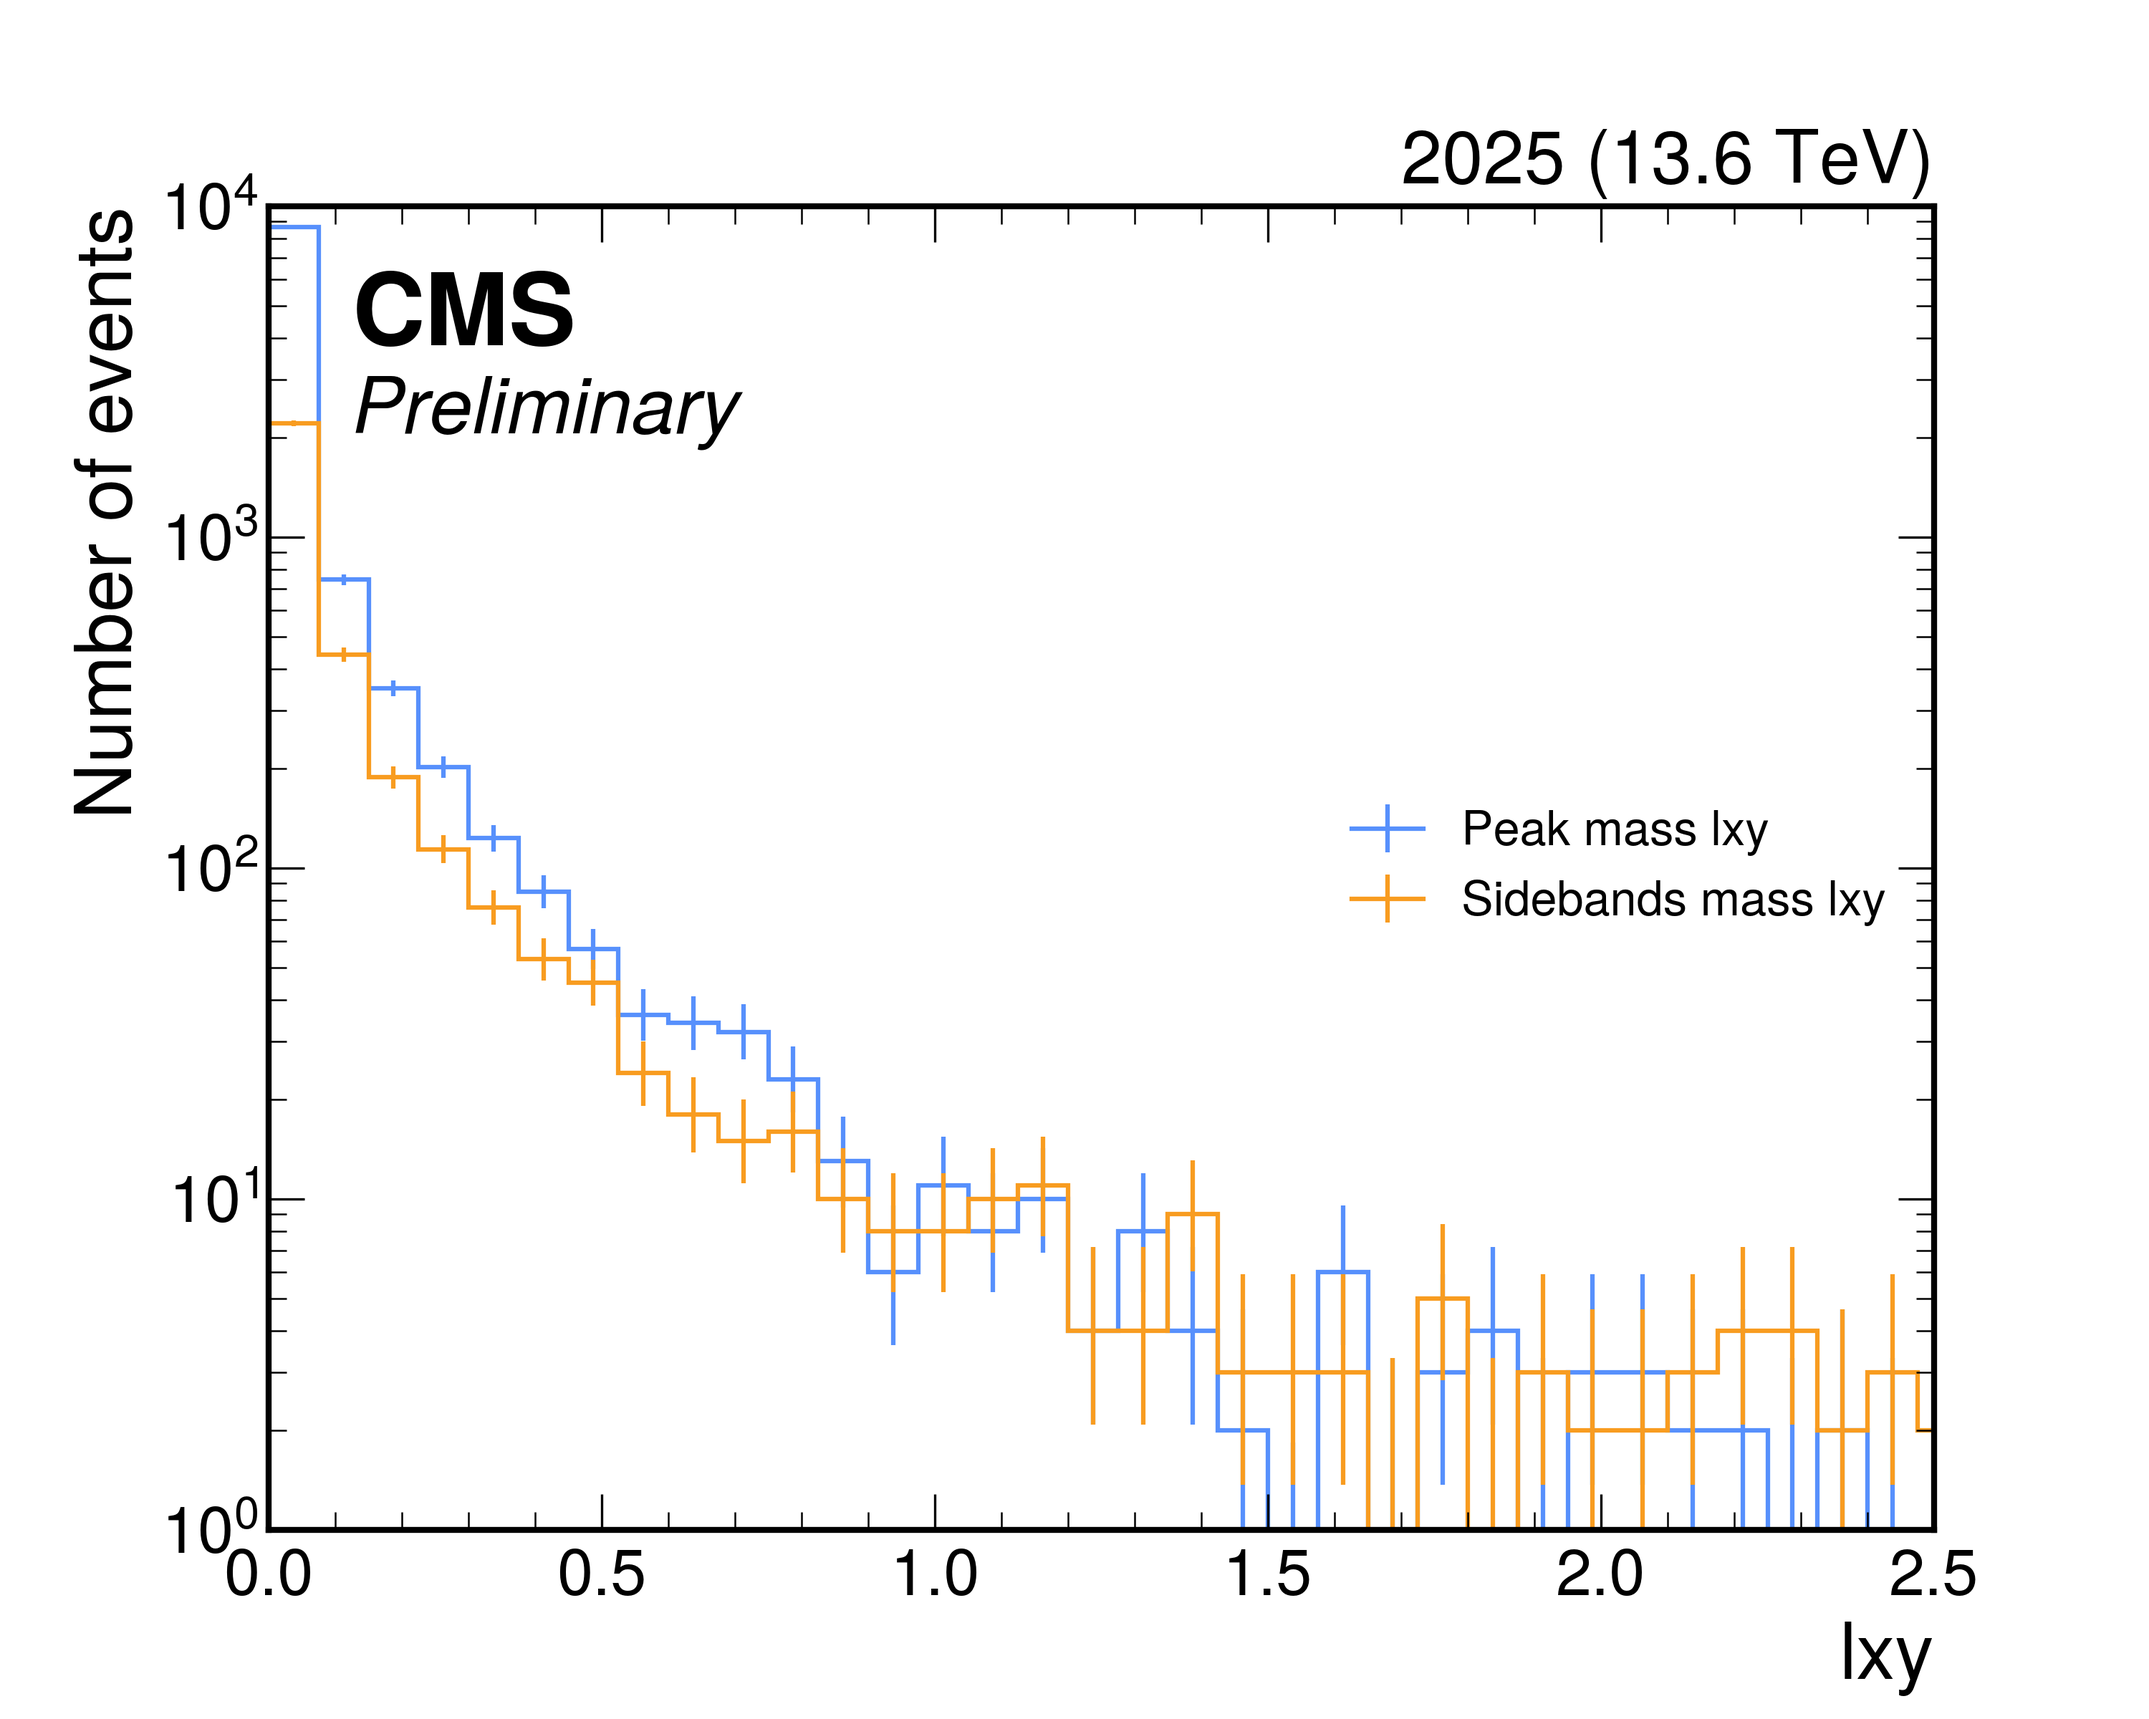
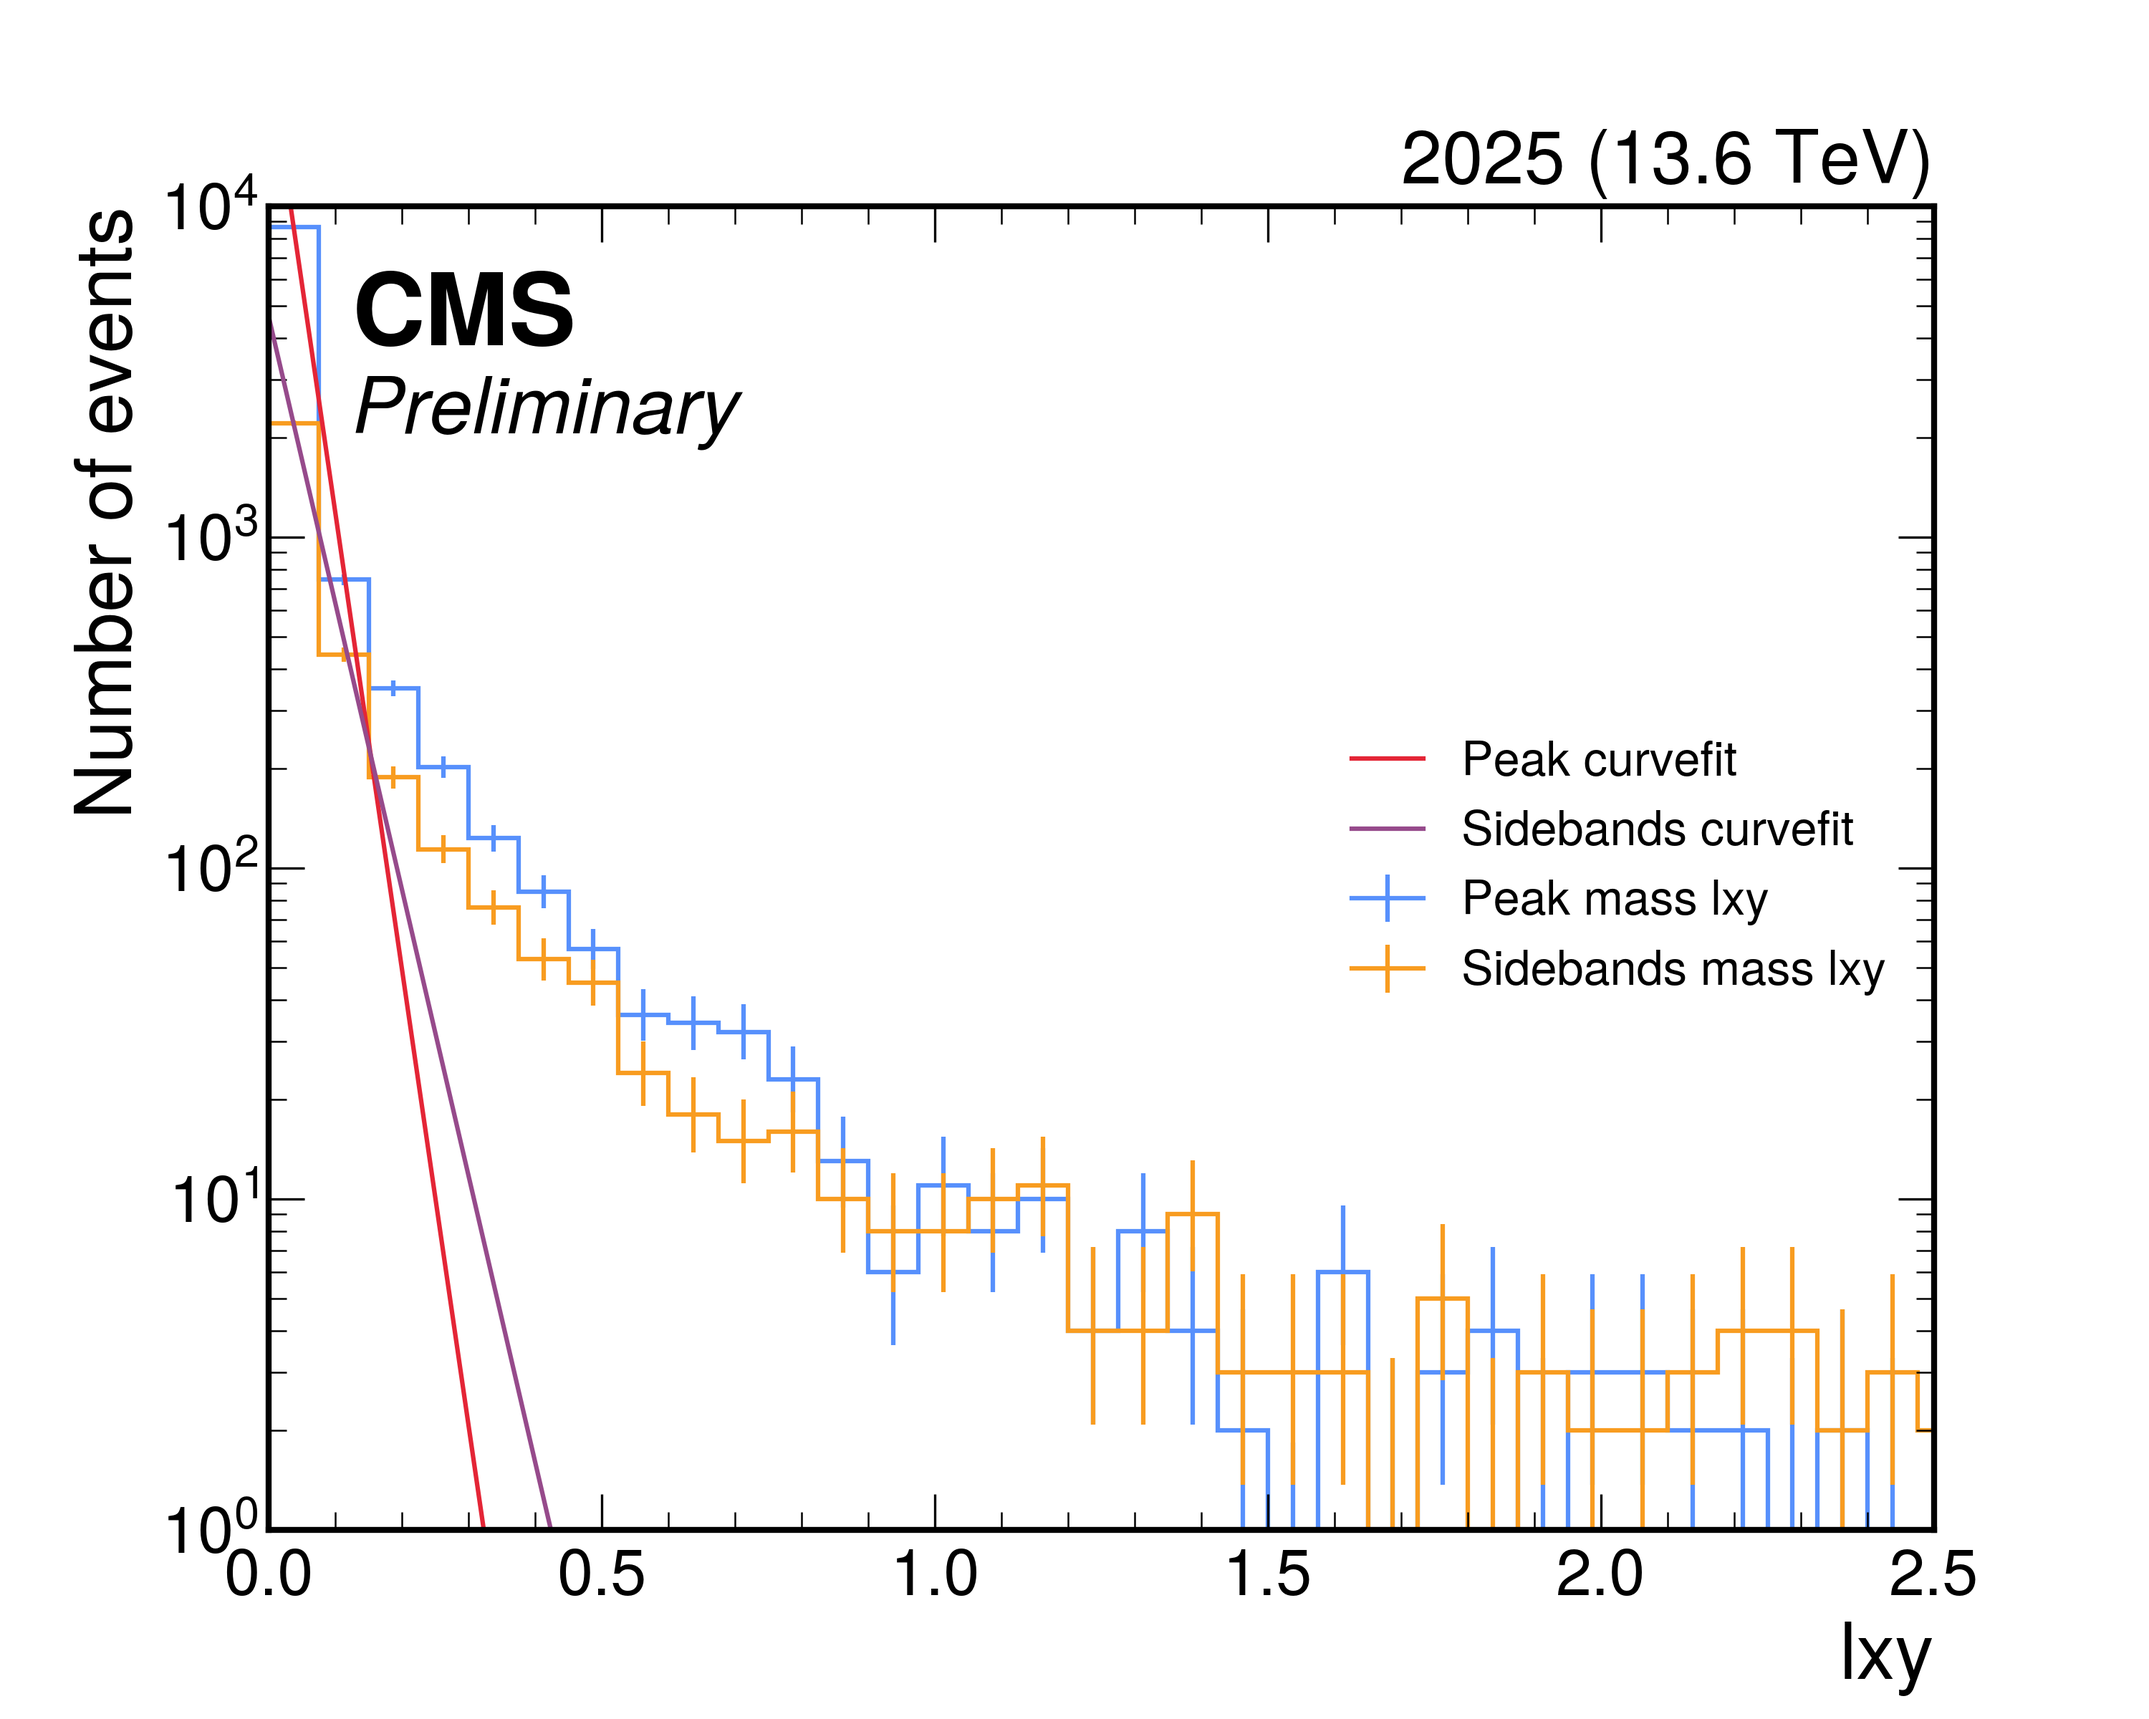
Readd draw code

diff --git a/draw.py b/draw.py
@@ -57,9 +57,10 @@ sb_param, sb_param_cov = curve_fit(func, sidebands_bin_centers, sidebands_bin_va
 print("Peak params:", pk_param)
 print("Sideband params:", sb_param)
 
+x = np.linspace(0, 7, num = 700)
+pk_y = func(x, pk_param[0], pk_param[1])
+sb_y = func(x, sb_param[0], sb_param[1])
 
-
-'''
 plt.style.use(hep.style.CMS)
 fig, ax = plt.subplots(figsize=(10,8))
 hep.cms.label("Preliminary", data=True, year='2025', com='13.6', ax=ax, loc=2)
@@ -79,6 +80,9 @@ ax.set_ylabel("Number of events")
 ax.set_yscale("log")
 fig.savefig("img/hist_lxy_temp_%s.png"%(MUON), dpi=300)
 
+
+##### 
+
 print("Plotting dual plot...")
 # Dual peak/sidebands plot
 plt.style.use(hep.style.CMS)
@@ -87,6 +91,9 @@ hep.cms.label("Preliminary", data=True, year='2025', com='13.6', ax=ax, loc=2)
 # h_lxy.plot(ax=ax, label="Full lxy")
 h_lxy_peak.plot(ax=ax, label="Peak mass lxy")
 h_lxy_sidebands.plot(ax=ax, label="Sidebands mass lxy")
+
+plt.plot(x, pk_y, label="Peak curvefit")
+plt.plot(x, sb_y, label="Sidebands curvefit")
 
 hist = h_lxy_peak
 print(hist.values())  # are they all zero?
@@ -108,4 +115,3 @@ ax.set_ylabel("Number of events")
 ax.set_yscale("log")
 ax.legend
 fig.savefig("img/hist_lxy_pk_side_%s.png"%(MUON), dpi=300)
-'''
